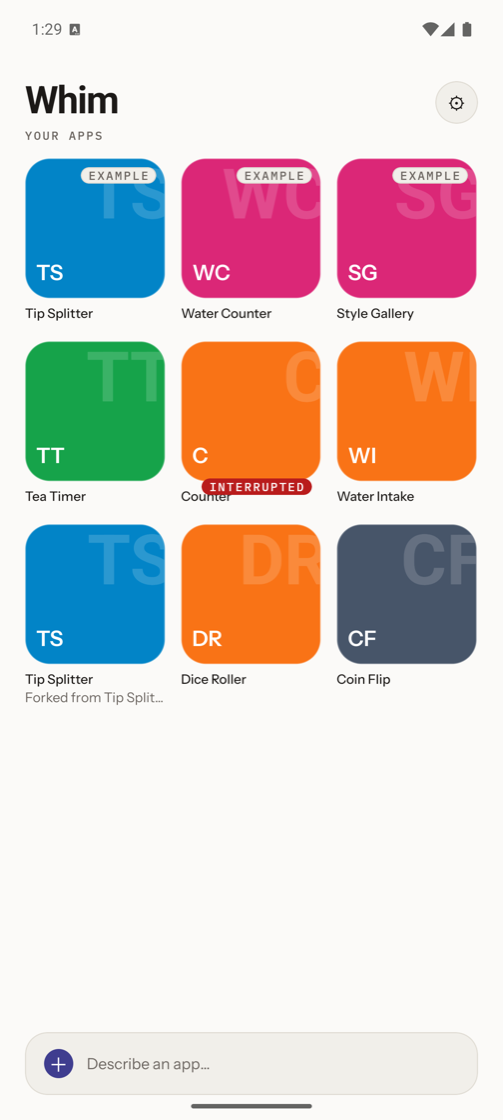
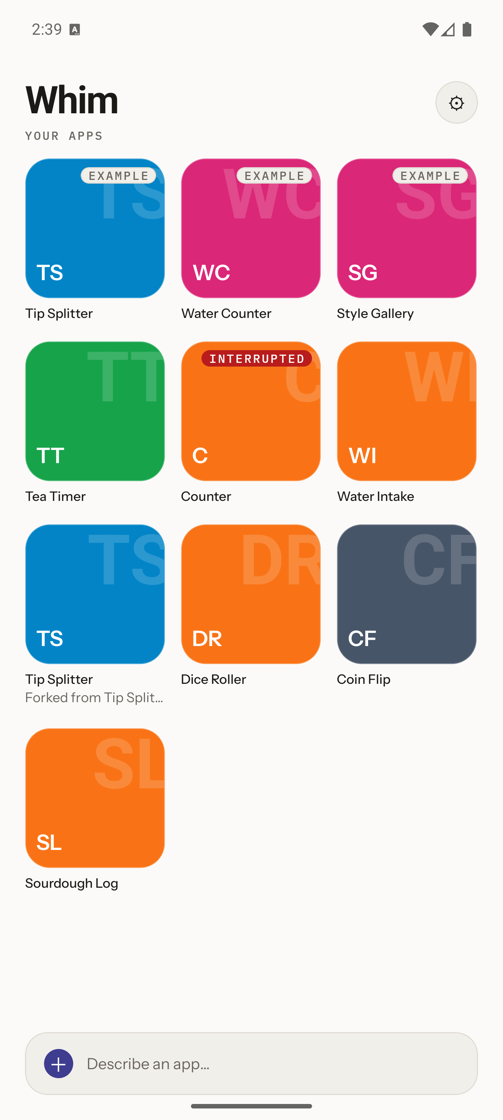
docs(readme): containment diagram with no edge on a subgraph; home shot from the same run
Mermaid lays out edges that start or end on a subgraph badly: three nested
subgraph titles stacked on each other and the nonce-authenticated-frames label
was clipped by the border. The trusted host is now a plain node, the iframe is
the only subgraph, every edge runs node to node, and neutralize.js gets its
true "runs before" edge so dagre has a reason to place it. Verified by
rendering with mermaid 11 in both themes and checking for label overlap and
edges through boxes.

home.png was shot before the Sourdough Log run the other six screenshots
depict; reshot on the same device with that app on the grid and the rebuild
badge fix in place.

Claude-Session: https://claude.ai/code/session_01KaCu6DHibyBd9KCDHZqYjg

diff --git a/README.md b/README.md
@@ -39,20 +39,20 @@ The generation is done by a model. The interesting part is everything around the
 
 ```mermaid
 flowchart TB
-    subgraph RN["React Native host, trusted"]
-        subgraph WV["WebView outer document, trusted"]
-            subgraph IF["cross-origin iframe: sandbox=allow-scripts, opaque origin"]
-                direction TB
-                NEU["neutralize.js strips the window's reach:<br/>fetch, XHR, WebSocket, RTCPeerConnection,<br/>localStorage, indexedDB, Worker, sendBeacon"]
-                LD["loader: holds nothing stronger than parent.postMessage"]
-                SDK["vc-sdk plus one shared React"]
-                APP["untrusted mini-app bundle"]
-            end
-        end
+    HOST["WebView outer document and<br/>React Native host, trusted"]
+    CSP["Leg 1, CSP: script-src without unsafe-eval,<br/>default-src none, connect-src none"]
+    subgraph IF["Leg 2, cross-origin iframe: sandbox=allow-scripts, opaque origin"]
+        direction TB
+        NEU["Leg 3, neutralize.js strips the window's reach:<br/>fetch, XHR, WebSocket, RTCPeerConnection,<br/>localStorage, indexedDB, Worker, sendBeacon"]
+        APP["untrusted mini-app bundle"]
+        SDK["vc-sdk plus one shared React"]
+        LD["loader: holds nothing stronger<br/>than parent.postMessage"]
     end
-    CSP["CSP: script-src without unsafe-eval,<br/>default-src none, connect-src none"] -. enforced on .-> IF
-    APP -- "renders through vc-sdk only" --> SDK
-    IF -- "nonce-authenticated frames" --> WV
+    HOST ~~~ CSP
+    CSP -. "enforced on" .-> APP
+    NEU -. "runs before" .-> APP
+    APP -- "renders through vc-sdk" --> SDK
+    LD -- "nonce-authenticated frames" --> HOST
 ```
 
 The iframe has an opaque origin, so `parent.document`, `top.location` and the native bridge are all a `SecurityError`. The CSP is the only thing that closes `({}).constructor.constructor('...')`, because every object reaches `Function` through its prototype chain and no amount of global stripping can stop that; `eval` and `Function` are left in place because React needs them and the CSP kills code generation at the engine level anyway. The global strip covers what CSP cannot, such as WebRTC, which ignores `connect-src`. A bundle shares scope with the loader and can forge its own "I am contained" report, so the host trusts only a verdict from closure-captured probes it cannot overwrite, delivered in frames authenticated by a per-load nonce. A new realm is created for every load, because an earlier generation can otherwise reach the next one through `Object.prototype`. That last one was found on a real device and is now a regression test.
